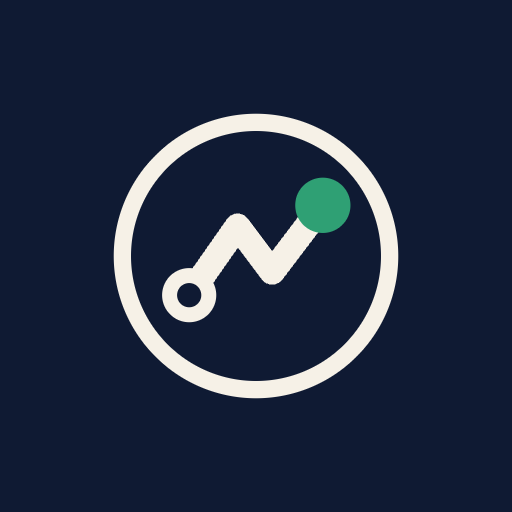
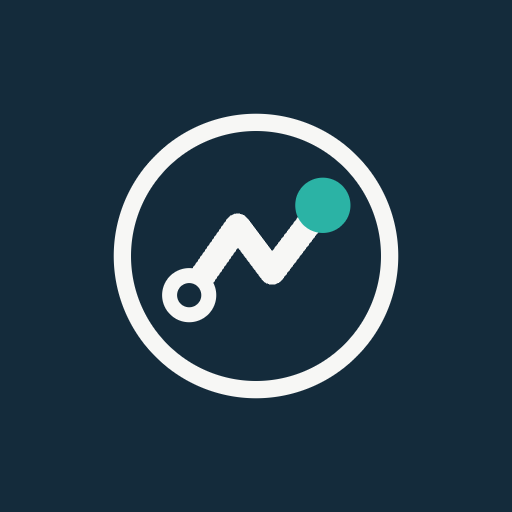
Palette: navy, ocean teal, ivory, mint (the brief's); one primary color; coral only in route art (#66)
- Teal is both --brand and --primary (blue/teal split resolved); success stays sage
- Dark mode is navy; contrast computed, hover state fixed to stay above 4.5:1
- Logo dot, favicon, icons and social image regenerated

Changed region(s): [[0.5625, 0.3438, 0.6875, 0.4688]]

diff --git a/src/styles.css b/src/styles.css
@@ -18,8 +18,9 @@
 /*
  * Waypoint design system: the ARG Core editorial language, with apple.com's craft.
  * - Type: Inter only. Bold headlines, regular body at 16px or more, sentence-case labels.
- * - Color: 60% warm cream canvas, 30% deep midnight blue (text, bars, dark mode), 10% emerald
- *   for the one primary action per screen; sage for success and confirmed states.
+ * - Color: deep navy #142B3B (text, dark surfaces), ocean teal #0F766E (primary actions, links), warm
+ *   ivory #F7F7F5 canvas with white surfaces, soft mint #EEF4F2 support fills, coral #E87952 only in
+ *   route art; sage for success and confirmed states.
  * - Shape: sharp 4px surfaces, pill buttons, 8px fields.
  * - Motion: exponential ease-out, one authored moment per screen, springs for direct manipulation.
  * - Space: an 8px grid. All colors are oklch tokens; components use semantic classes only.
@@ -324,54 +325,54 @@
   --radius: 12px;
   color-scheme: light;
   /* apple.com: a light-gray page (#f5f5f7), white tiles, #1d1d1f text. */
-  --background: oklch(0.962 0.016 85);
-  --foreground: oklch(0.24 0.06 262);
-  --card: oklch(0.985 0.01 85);
-  --card-foreground: oklch(0.24 0.06 262);
-  --popover: oklch(0.99 0.008 85);
-  --popover-foreground: oklch(0.24 0.06 262);
+  --background: #f7f7f5;
+  --foreground: #142b3b;
+  --card: #ffffff;
+  --card-foreground: #142b3b;
+  --popover: #ffffff;
+  --popover-foreground: #142b3b;
   /* The one accent: interactive, selected, focused. */
   /* Brand blue (#2457E6), the logo's tile color, doubles as the interactive accent. */
-  --primary: oklch(0.42 0.13 262);
-  --primary-deep: oklch(0.34 0.11 262);
-  --primary-foreground: oklch(0.985 0.01 85);
+  --primary: #0f766e;
+  --primary-deep: #0b5f59;
+  --primary-foreground: #ffffff;
   /* Fills (#e8e8ed) for secondary controls and tracks. */
-  --secondary: oklch(0.93 0.018 85);
-  --secondary-foreground: oklch(0.24 0.06 262);
-  --muted: oklch(0.93 0.018 85);
-  --muted-foreground: oklch(0.43 0.04 262);
-  --accent: oklch(0.925 0.025 85);
-  --accent-foreground: oklch(0.24 0.06 262);
-  --fill: oklch(0.24 0.06 262 / 0.05);
+  --secondary: #eef4f2;
+  --secondary-foreground: #142b3b;
+  --muted: #eef4f2;
+  --muted-foreground: #4a5d6b;
+  --accent: #e1ede9;
+  --accent-foreground: #142b3b;
+  --fill: rgb(20 43 59 / 0.05);
   /* Legacy warm tokens now resolve to the accent / neutrals. */
   --sunset: var(--primary);
   --sunset-foreground: var(--primary-foreground);
-  --sunset-soft: oklch(0.925 0.025 85);
+  --sunset-soft: #e1ede9;
   --gold: oklch(0.7 0.12 80);
-  --gold-soft: oklch(0.93 0.018 85);
+  --gold-soft: #eef4f2;
   --success: oklch(0.45 0.06 150);
   --success-soft: oklch(0.93 0.03 140);
-  --shield: oklch(0.43 0.04 262);
-  --shield-soft: oklch(0.93 0.018 85);
-  --shield-foreground: oklch(0.985 0.01 85);
-  --demo: oklch(0.43 0.04 262);
-  --demo-soft: oklch(0.93 0.018 85);
+  --shield: #4a5d6b;
+  --shield-soft: #eef4f2;
+  --shield-foreground: #f7f7f5;
+  --demo: #4a5d6b;
+  --demo-soft: #eef4f2;
   --destructive: oklch(0.495 0.154 25);
-  --destructive-foreground: oklch(0.985 0.01 85);
+  --destructive-foreground: #ffffff;
   --destructive-soft: oklch(0.91 0.025 37);
   /* Separators are hairlines: black at low alpha, so they sit right on any surface. */
-  --border: oklch(0.24 0.06 262 / 0.16);
-  --separator: oklch(0.24 0.06 262 / 0.12);
-  --input: oklch(0.24 0.06 262 / 0.38);
-  --ring: oklch(0.5 0.13 262);
+  --border: rgb(20 43 59 / 0.16);
+  --separator: rgb(20 43 59 / 0.12);
+  --input: rgb(20 43 59 / 0.38);
+  --ring: #0f766e;
   /* Brand coral (#FF6B4A): the logo's destination dot. Used sparingly for "you are here / next" cues. */
-  --brand-coral: oklch(0.5 0.1 165);
+  --brand-coral: #e87952;
   /* Coral as small text (step numbers): darker so it reads at AA contrast on paper. */
-  --coral-text: oklch(0.42 0.09 165);
+  --coral-text: #b4472a;
   /* Solid emphasis surface (primary call to action, the balance card). */
-  --ink: oklch(0.24 0.06 262);
-  --ink-foreground: oklch(0.985 0.01 85);
-  --on-image: oklch(0.985 0.01 85);
+  --ink: #142b3b;
+  --ink-foreground: #f7f7f5;
+  --on-image: #ffffff;
 
   /* "Go" actions (Plan trip, See the days) use the brand blue: one action color. */
   --go: var(--brand);
@@ -419,7 +420,7 @@
   --shadow-glow-value: 0 1px 2px oklch(0 0 0 / 0.05);
 
   /* Materials: frosted glass for bars and menus (alpha of the base + blur). */
-  --material-base: oklch(0.962 0.016 85);
+  --material-base: #f7f7f5;
   --material-thick: 0.88;
   --material-regular: 0.74;
   --material-thin: 0.6;
@@ -435,53 +436,53 @@
   --sidebar-accent-foreground: var(--secondary-foreground);
   --sidebar-border: var(--border);
   --sidebar-ring: var(--ring);
-  --brand: oklch(0.5 0.1 165);
-  --brand-foreground: oklch(0.99 0.006 85);
-  --brand-deep: oklch(0.42 0.09 165);
+  --brand: #0f766e;
+  --brand-foreground: #ffffff;
+  --brand-deep: #0b5f59;
 }
 .dark {
   color-scheme: dark;
   /* Near-black page, #1d1d1f tiles: Apple's dark pages, a shade off pure black. */
-  --background: oklch(0.2 0.045 262);
-  --foreground: oklch(0.96 0.015 85);
-  --card: oklch(0.25 0.05 262);
-  --card-foreground: oklch(0.96 0.015 85);
-  --popover: oklch(0.28 0.05 262);
-  --popover-foreground: oklch(0.96 0.015 85);
-  --primary: oklch(0.78 0.1 262);
-  --primary-deep: oklch(0.84 0.08 262);
-  --primary-foreground: oklch(0.2 0.045 262);
-  --secondary: oklch(0.29 0.05 262);
-  --secondary-foreground: oklch(0.96 0.015 85);
-  --muted: oklch(0.29 0.05 262);
-  --muted-foreground: oklch(0.78 0.03 262);
-  --accent: oklch(0.3 0.05 262);
-  --accent-foreground: oklch(0.96 0.015 85);
-  --fill: oklch(0.96 0.015 85 / 0.07);
+  --background: #0e1f2b;
+  --foreground: #f1f4f3;
+  --card: #142b3b;
+  --card-foreground: #f1f4f3;
+  --popover: #1b3647;
+  --popover-foreground: #f1f4f3;
+  --primary: #5fcfc2;
+  --primary-deep: #8be0d6;
+  --primary-foreground: #0e1f2b;
+  --secondary: #1b3647;
+  --secondary-foreground: #f1f4f3;
+  --muted: #1b3647;
+  --muted-foreground: #a9bcc7;
+  --accent: #1f3e50;
+  --accent-foreground: #f1f4f3;
+  --fill: rgb(241 244 243 / 0.07);
   --sunset: var(--primary);
   --sunset-foreground: var(--primary-foreground);
-  --sunset-soft: oklch(0.3 0.05 262);
+  --sunset-soft: #1f3e50;
   --gold: oklch(0.78 0.11 80);
-  --gold-soft: oklch(0.29 0.05 262);
+  --gold-soft: #1b3647;
   --success: oklch(0.76 0.09 150);
   --success-soft: oklch(0.3 0.04 160);
-  --shield: oklch(0.86 0.025 262);
-  --shield-soft: oklch(0.29 0.05 262);
-  --shield-foreground: oklch(0.2 0.045 262);
-  --demo: oklch(0.72 0.03 262);
-  --demo-soft: oklch(0.29 0.05 262);
+  --shield: #c9d6dd;
+  --shield-soft: #1b3647;
+  --shield-foreground: #0e1f2b;
+  --demo: #a9bcc7;
+  --demo-soft: #1b3647;
   --destructive: oklch(0.662 0.162 26);
-  --destructive-foreground: oklch(0.2 0.045 262);
+  --destructive-foreground: #0e1f2b;
   --destructive-soft: oklch(0.222 0.037 26);
-  --border: oklch(0.96 0.015 85 / 0.16);
-  --separator: oklch(0.96 0.015 85 / 0.11);
-  --input: oklch(0.96 0.015 85 / 0.32);
-  --ring: oklch(0.78 0.1 262);
-  --brand-coral: oklch(0.72 0.12 165);
-  --coral-text: oklch(0.76 0.11 165);
-  --ink: oklch(0.96 0.015 85);
-  --ink-foreground: oklch(0.2 0.045 262);
-  --on-image: oklch(0.985 0.01 85);
+  --border: rgb(241 244 243 / 0.16);
+  --separator: rgb(241 244 243 / 0.11);
+  --input: rgb(241 244 243 / 0.32);
+  --ring: #5fcfc2;
+  --brand-coral: #e87952;
+  --coral-text: #f0a58c;
+  --ink: #f1f4f3;
+  --ink-foreground: #0e1f2b;
+  --on-image: #ffffff;
 
   --go: var(--brand);
   --go-deep: var(--brand-deep);
@@ -516,15 +517,15 @@
   --shadow-lift-value: 0 22px 60px -20px oklch(0 0 0 / 0.7);
   --shadow-glow-value: none;
 
-  --material-base: oklch(0.2 0.045 262);
+  --material-base: #0e1f2b;
   --material-thick: 0.86;
   --material-regular: 0.72;
   --material-thin: 0.58;
   --specular: oklch(1 0 0 / 0);
-  --material-edge: oklch(0.96 0.015 85 / 0.11);
-  --brand: oklch(0.52 0.1 165);
-  --brand-foreground: oklch(0.959 0.013 87);
-  --brand-deep: oklch(0.58 0.1 165);
+  --material-edge: rgb(241 244 243 / 0.11);
+  --brand: #0f766e;
+  --brand-foreground: #ffffff;
+  --brand-deep: #0b5f59;
 }
 
 @layer base {

diff --git a/src/components/app/Logo.tsx b/src/components/app/Logo.tsx
@@ -1,12 +1,12 @@
 import { cn } from "@/lib/utils";
 
 /**
- * The Waypoint mark: a ring holding one route, from a hollow origin to an emerald
+ * The Waypoint mark: a ring holding one route, from a hollow origin to a teal
  * destination dot. Geometry lives on a 32-unit grid and matches public/favicon.svg
  * (which sets it on a dark tile); keep the two in step. The ring and route follow the
- * text color, the dot is the brand emerald, so it reads on dark and on cream paper.
+ * text color, the dot is the brand teal, so it reads on dark and on cream paper.
  */
-export const BRAND = { emerald: "#2FA074", ink: "#F6F1E7", ground: "#0F1A33" } as const;
+export const BRAND = { teal: "#2BB3A5", ink: "#F7F7F5", ground: "#142B3B" } as const;
 export const ROUTE_PATH = "M9.4 20.2 L14.1 12.9 L17.6 17.9 L22.6 10.7";
 
 export function LogoMark({
@@ -61,10 +61,10 @@ export function LogoMark({
         cy="10.7"
         r="2.4"
         fill="none"
-        stroke={BRAND.emerald}
+        stroke={BRAND.teal}
         strokeWidth="1"
       />
-      <circle className="logo-dest" cx="22.6" cy="10.7" r="2.4" fill={BRAND.emerald} />
+      <circle className="logo-dest" cx="22.6" cy="10.7" r="2.4" fill={BRAND.teal} />
     </svg>
   );
 }

diff --git a/src/lib/theme.ts b/src/lib/theme.ts
@@ -4,7 +4,7 @@ export type ThemePref = "light" | "dark" | "system";
 const KEY = "waypoint.theme";
 
 /** Browser-chrome color per theme: the page background, so the toolbar blends in. Dark is the default. */
-export const THEME_COLORS = { light: "#F6F1E7", dark: "#0F1A33" } as const;
+export const THEME_COLORS = { light: "#F7F7F5", dark: "#0E1F2B" } as const;
 
 export const THEME_BOOT_SCRIPT = `(function(){var d=false;try{var p=localStorage.getItem("${KEY}")||"light";d=p==="dark"||(p==="system"&&window.matchMedia("(prefers-color-scheme: dark)").matches);document.documentElement.classList.toggle("dark",d);}catch(e){}var m=document.createElement("meta");m.name="theme-color";m.content=d?"${THEME_COLORS.dark}":"${THEME_COLORS.light}";document.head.appendChild(m);})();`;
 

diff --git a/src/components/ui/button.tsx b/src/components/ui/button.tsx
@@ -11,7 +11,7 @@ const buttonVariants = cva(
   {
     variants: {
       variant: {
-        // One primary per screen: emerald fill, cream text.
+        // One primary per screen: teal fill, cream text.
         default: "bg-brand text-brand-foreground hover:bg-brand-deep",
         destructive: "bg-destructive text-destructive-foreground hover:bg-destructive/90",
         // Secondary: a transparent pill with a hairline.

diff --git a/src/components/app/OpenRouteMap.tsx b/src/components/app/OpenRouteMap.tsx
@@ -9,7 +9,7 @@ import type { LatLng, RealRoute, RouteStop } from "@/lib/routing/types";
  */
 
 export const BLUE = "#0B5C5A";
-const CORAL = "#2FA074";
+const CORAL = "#2BB3A5";
 export const STYLE = {
   light: "https://tiles.openfreemap.org/styles/positron",
   dark: "https://tiles.openfreemap.org/styles/dark",

diff --git a/AGENTS.md b/AGENTS.md
@@ -73,6 +73,7 @@
 - **One-day edits** (itinerary, signed-in travelers; AI): `planWithAi(text, { dayIndex })` asks for the whole plan with "Change only Day N" but lands only that day through `tripActions.setDayFor` (`replaceDay` in `itinerary-edit.ts`: every other day stays the same object, the traveler's own stops on that day are kept once with fresh ids), with a toast showing the day's per-person cost before and after and an Undo (`restoreDay`). A request that names exactly one day ("make day 2 cheaper", `parseDayNumber`) typed in Refine goes the same way; several days or none go to the whole plan. Trips over 14 days (`SINGLE_REQUEST_DAYS`) don't support day edits yet. New suggestions stay unverified; the UI says so. The AI path itself is untested against the live model (needs a signed-in session and the Gemini key).
 - **What saved preferences really do (audit 2026-11-11)**: home city and home airport drive the start city, live price searches and booking links; travel style, usual group size and interests are applied to the untouched sample trip for signed-in travelers (`personalizeSample(home, prefs)`, via `usePersonalizedSample`), so new plans start from them; memberships and the usual way to get there are saved but not used yet, and the Profile page says so. Before adding any profile field, wire it to something real or label it "not used yet". Dietary and accessibility needs would need new `traveler_preferences` columns (a migration on the production database, and the AI planner's request facts to carry them): not done.
 - **Phase 1 trust rules (2026-11-11)**: a budget the traveler typed (`budgetAuto` false) is a strict, hard ceiling: `fitBudget` never raises it, a trip that costs more starts over budget with a plain note, and only the traveler can raise it (Budget page, two taps) or hand it back to Waypoint (`tripActions.letWaypointSetBudget`, flexible mode = `budgetAuto` true). The emergency fund is never touched by either. Booking statuses are `todo`, `in-progress`, `booked` (what the traveler reports, never verified), `cancelled`, `refunded`, `skipped`; only `booked` counts as done. The page is the "Booking checklist" and says plainly that its links are plain search links earning nothing (change that sentence only when a real partner agreement exists). Copy never says "to the dollar": costs are estimates. Signed-in travelers can download their data and delete their account on the Profile page (`deleteMyAccount` in `account-data.functions.ts`, service role, server only; rows are deleted first because the tables have no foreign key to auth.users). `.env` stays tracked for now because the build needs the three `VITE_SUPABASE_*` public values and Vercel does not have them set yet; `.env.example` lists every name.
+- **Palette (2026-11-12, owner-chosen; supersedes the Palette bullet above)**: the brief's palette: deep navy `#142B3B` (text, dark-mode surfaces; dark canvas `#0E1F2B`), ocean teal `#0F766E` (`--brand` and `--primary`: one color for primary buttons, links and selected states; lighter `#5FCFC2` as dark-mode text accent), warm ivory `#F7F7F5` canvas with white cards, soft mint `#EEF4F2` for supporting fills, sage for success, coral `#E87952` only in route art (`--brand-coral`; never on buttons: the owner dislikes orange). Contrast was computed: every text pair is at least 4.5:1 (muted text 6.4:1 on ivory; white on teal 5.5:1; dark hover uses `#0B5F59` so white text stays above 4.5:1). The logo dot, favicon and OG image use `#2BB3A5` on navy. `cream-palette` is still ignored in the detector (ivory).
 - **Palette (2026-11-11, owner-supplied; supersedes the green/cream and emerald color notes below)**: 60% warm cream canvas (`--background` ~#F6F1E7), 30% deep midnight blue (text, bars, `--ink`; dark mode is a midnight-blue canvas ~#0F1A33), 10% emerald (`--brand` #1F7A5A-family, the one primary button per screen and the logo's destination dot; the owner disliked the orange/coral first tried). Links, selected states, focus and the headline accent word use `--primary` (a clear blue). Success and confirmed states use a softer sage (`--success`), distinct from the emerald button. Gold is never used for buttons. Trip-type and category hues stay as data colors. Brand assets use midnight `#0F1A33`, cream `#F6F1E7` and emerald `#2FA074`. The detector's `cream-palette` rule is ignored on purpose (the owner chose cream).
 - **Look (current, supersedes the argcoresolutions.com bullets below where they differ)**: the owner found the clone of argcoresolutions.com hard to read and did not want it copied. Waypoint is a clean, readable app: light by default (`theme.ts` falls back to light), soft white surfaces on `oklch(0.985 0.004 160)`, dark mode is a lifted dark grey (not near-black), Inter only (bold headlines, 16px+ body, sentence-case labels at 13px; no serif, no mono, no uppercase tracked labels), emerald stays the single accent, surfaces and cards have 12px corners, buttons stay pills. `title-display em` is an upright accent-colored word. Destination photos are small: a 160-192px thumbnail on the Overview and 16:9 cards in the ideas row (400px images), never a full-width hero. Fonts: only Inter is loaded and preloaded.
 - Design system (the language of the owner's site, argcoresolutions.com, with apple.com's craft; `src/test/design-system.test.ts` enforces it; `docs/design/language.md` is the readable version, `docs/design/hig.md` the history of the earlier Apple-style system). Type: three self-hosted faces (OFL): Fraunces (`--font-display`, `title-display`: light 300, optical size on, `<em>` inside it is the italic emerald accent word, also `money-display` for amounts), Inter (`--font-sans`, text and controls) and JetBrains Mono (`--font-mono`: `label-mono` is the small uppercase tracked label for data (dates, regions, amounts), never a kicker above a heading). Metric-matched fallback faces (`Fraunces Fallback`, `Inter Fallback`, measured widths) and `<link rel=preload>` for the four above-the-fold files (`__root.tsx`) keep the late font swap from shifting layout; `.hero-line` has a fixed height for the same reason. A 9-level scale (`text-display` 52-128px, `text-large-title` 40-76, `text-title-1` 30, `text-title-2` 24, `text-headline` 19, `text-body` 17, `text-footnote` 14, `text-caption`/`text-micro` 12, each with its own line height, tracking and weight; the smallest text is 12px). Shape: buttons are pills (`rounded-full`; 44px, `sm` 36px, `lg` 48px; one emerald primary per screen, outlined hairline pills for the rest, `loading` shows a spinner and blocks double presses), fields are 8px (`rounded-lg`, `bg-card`, hairline `border-input`), surfaces and photos 4px; radii come from one token scale, no `rounded-[..]`. Spacing is an 8px grid (tested); `page-container` is up to 1328px with 24/32/48px side padding. Hairline rules, not boxes, separate groups.
